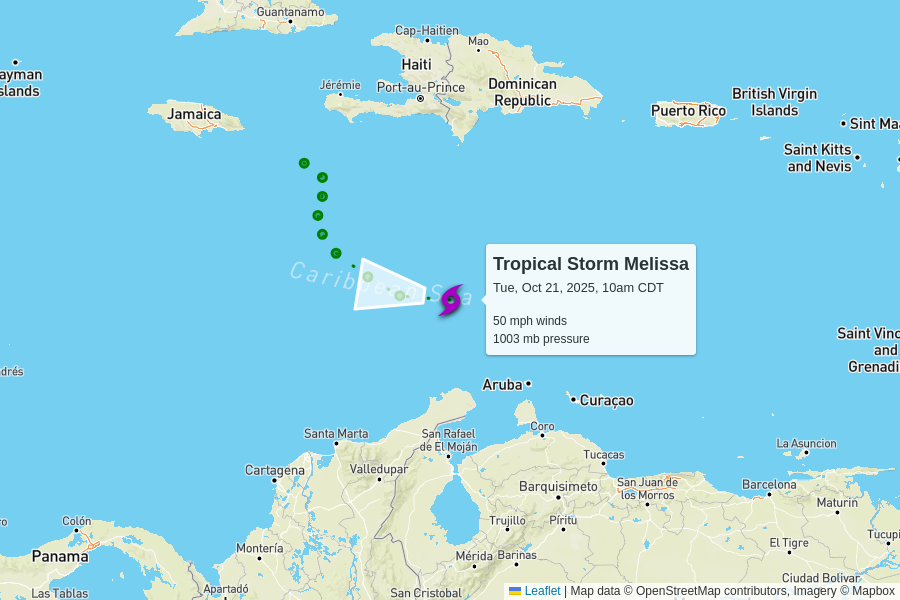
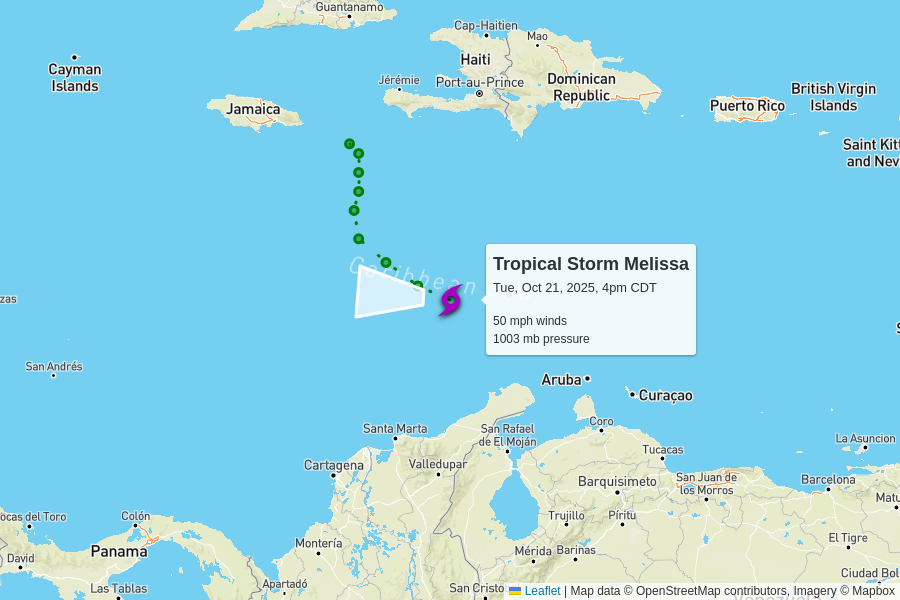
automatic update

diff --git a/docs/index.html b/docs/index.html
@@ -102,7 +102,7 @@
         <td colspan="6" class="storm category-0" >
           <h2>
             Tropical Storm Melissa
-            <p class="updated">last updated <span data-time>2025-10-21T15:00:00.000Z</span></p>
+            <p class="updated">last updated <span data-time>2025-10-21T21:00:00.000Z</span></p>
           </h2>
         </td>
       </tr>
@@ -117,12 +117,12 @@
       </tr>
       <tr>
         <td class="spacer"></td>
-        <td>50 mph</td>
-        <td>1003 mb</td>
+        <td>50 mph<br>0 mph since last update</td>
+        <td>1003 mb<br>0 mb since last update</td>
         <td>
-          14 mph to the west
+          15 mph to the west
           <br/>
-          <span style="display: inline-block; font-size: 1.5em; transform: rotate(280deg);">↑</span>
+          <span style="display: inline-block; font-size: 1.5em; transform: rotate(275deg);">↑</span>
         </td>
         <td><a href="https://raw.githubusercontent.com/mgwalker/atlantic-hurricanes/main/data/csv/AL132025.csv">AL132025.csv</a></td>
         <td><a href="https://www.nhc.noaa.gov/archive/2025/MELISSA.shtml?">NHC advisories</a></td>
